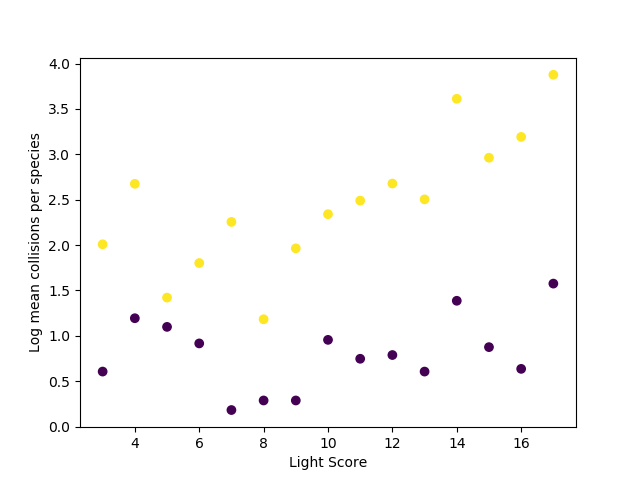
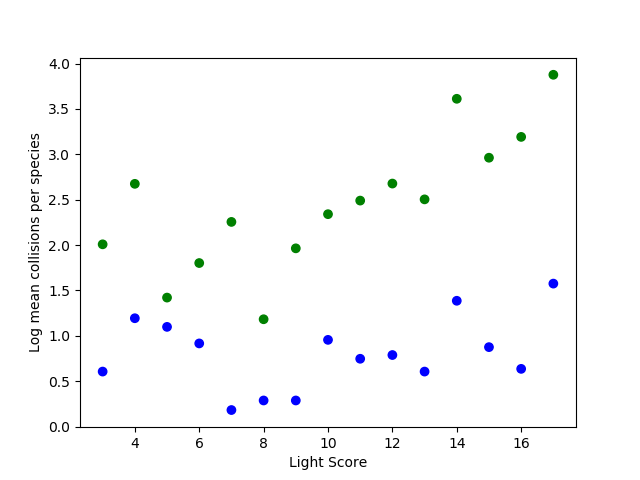
Updated figure

diff --git a/src/main.py b/src/main.py
@@ -79,17 +79,18 @@ def main(args_lst):
     #d["Flight_Call"] = d["Flight_Call"].apply(lambda x: 1  if x == "yes" else 0)
 
 
-    e = chicago_collision_flight_light[chicago_collision_flight_light["Locality"]=="MP"]\
+    light_score_mp_fct = chicago_collision_flight_light[chicago_collision_flight_light["Locality"]=="MP"]\
         .groupby(by = ["Light_Score","Flight_Call"]).agg(sum_collisions = ("Species","count"), num_species =('Species','nunique'))
-    e.reset_index(inplace= True)
+    light_score_mp_fct.reset_index(inplace= True)
 
 
-    e["collision_per_species"] =  e["sum_collisions"]/e["num_species"]
-    e["log_collision_per_species"] = np.log(e["collision_per_species"])
-    print(e)
+    light_score_mp_fct["collision_per_species"] =  light_score_mp_fct["sum_collisions"]/light_score_mp_fct["num_species"]
+    light_score_mp_fct["log_collision_per_species"] = np.log(light_score_mp_fct["collision_per_species"])
 
-    e.to_csv(light_score_mp_fct_path)
-    plt.scatter(x = e["Light_Score"], y = e["log_collision_per_species"], c = e["Flight_Call"] )
+    c = light_score_mp_fct["Flight_Call"].apply(lambda x: "g" if x==1 else "b" )
+
+    light_score_mp_fct.to_csv(light_score_mp_fct_path)
+    plt.scatter(x = light_score_mp_fct["Light_Score"], y = light_score_mp_fct["log_collision_per_species"], c = c)
 
     plt.xlabel("Light Score")
     plt.ylabel("Log mean collisions per species")

diff --git a/README.md b/README.md
@@ -109,9 +109,10 @@ Categorization from paper
 |collision_per_species | float | Number of collisions per species          |
 |log_collision_per_species     | float | Log of collision_per_species          |
 |num_species     | integer  | Number of unique species           |
+|sum_collisions | integer | Sum of collisions
 
 
 ## Analysis 
-By plotting light level vs collision mean count per species we can clearly see flight call is positively correlated with light score for McCormick Place where yellow points on figure represent collision with flight calls and purple repreesent collision without flight calls 
+By plotting light level vs collision mean count per species we can clearly see flight call is positively correlated with light score for McCormick Place where green points on figure represent collision with flight calls and blue repreesent collision without flight calls 
 
 ![Plot](data/output/mc_light_vs_collision.png)
